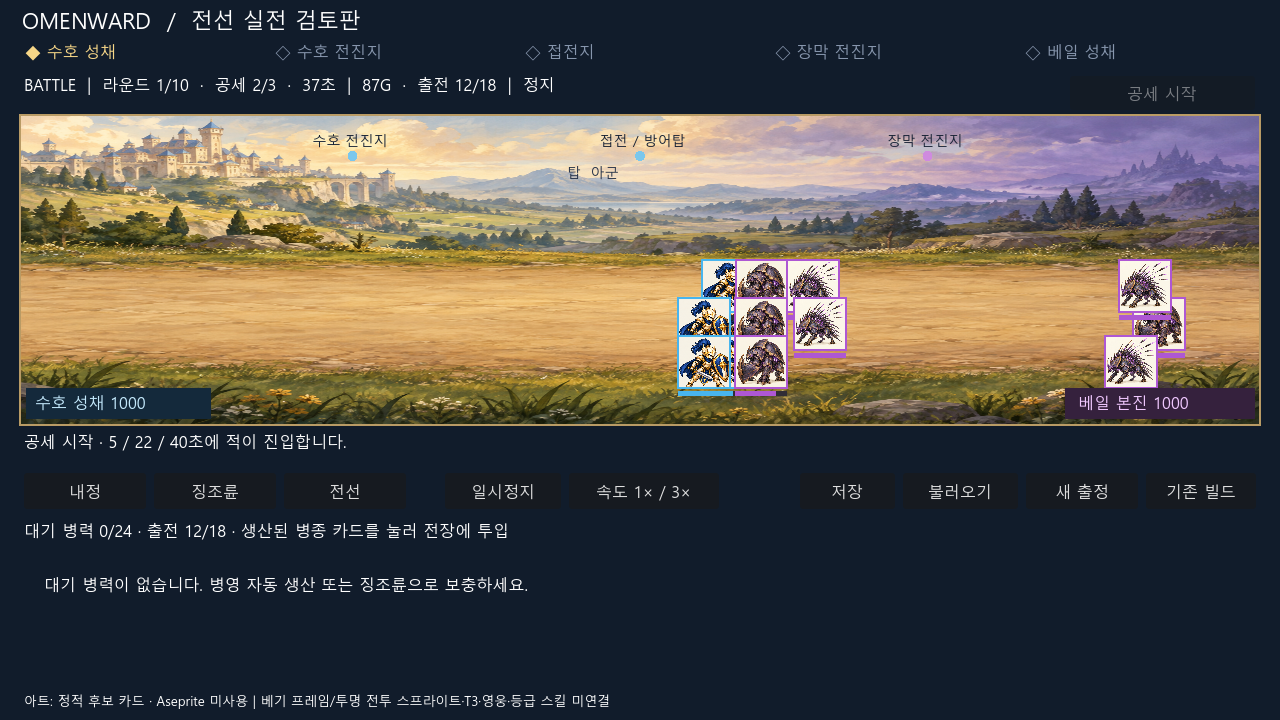
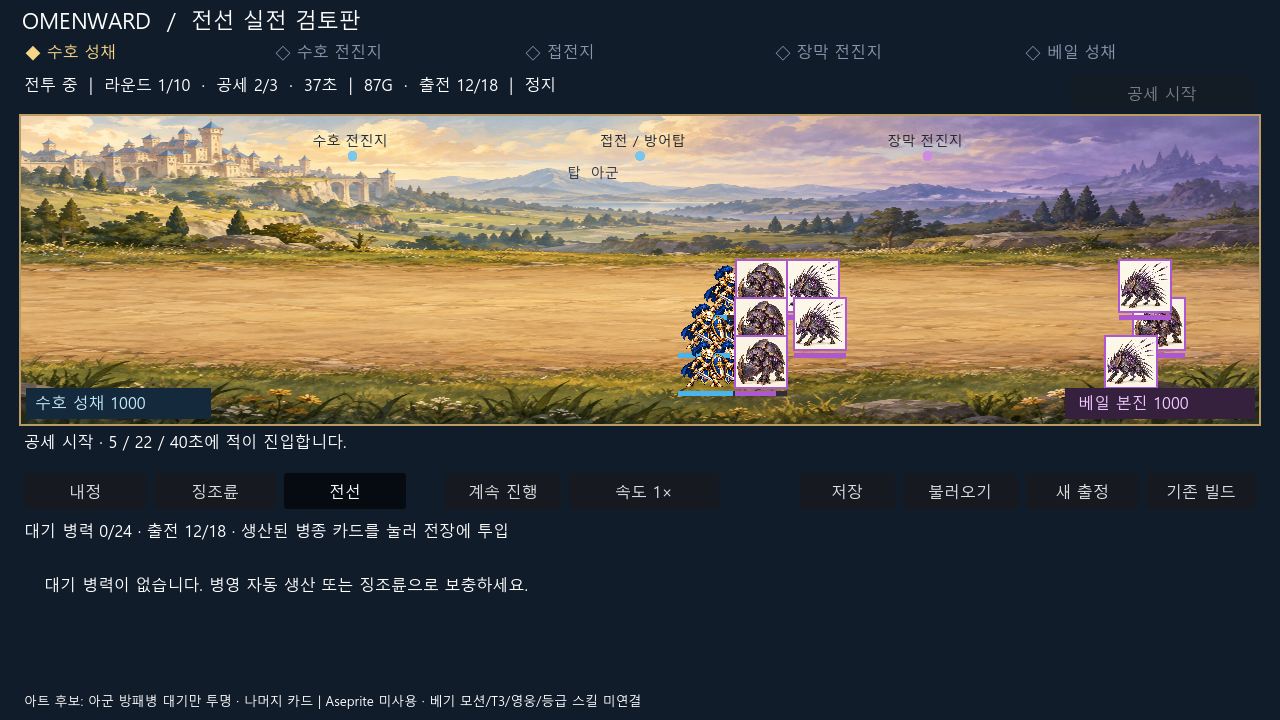
Authorize scoped replan build and clarify UI with alpha idle candidate

diff --git a/tools/replan_scope.py b/tools/replan_scope.py
@@ -1,0 +1,80 @@
+"""User-approved, project-local BUILD scope. Does not rewrite Base validation."""
+from __future__ import annotations
+import argparse
+import importlib
+from pathlib import Path
+import subprocess
+import sys
+
+ROOT = Path(__file__).resolve().parents[1]
+APPROVAL = 'docs/process/APPROVED_REPLAN_UI_MOTION_BUILD_SCOPE_20260911.md'
+# Exact files only: adding a sibling module requires a reviewed scope amendment.
+ALLOWED = {
+    'AGENTS.md', APPROVAL,
+    'project.godot', 'scenes/replan/front_slice.tscn',
+    'scripts/replan/front_art.gd', 'scripts/replan/front_art.gd.uid',
+    'scripts/replan/front_run.gd', 'scripts/replan/front_run.gd.uid',
+    'scripts/replan/front_screen.gd', 'scripts/replan/front_screen.gd.uid',
+    'docs/ACTIVE_CONTEXT.md', 'docs/CURRENT_CONFIRMED_DECISIONS.md',
+    'docs/OMENWARD_ROADMAP.md',
+    'docs/images/candidates/blueprint-20260911/ROSTER_PROVENANCE.md',
+    'docs/images/candidates/blueprint-20260911/ward-shield-slash-alpha-candidate.png',
+    'docs/images/candidates/blueprint-20260911/ward-shield-slash-alpha-candidate.png.import',
+    'docs/superpowers/plans/2026-09-11-visible-battle-slice.md',
+    'output/front-battle.png', 'output/front-building.png',
+    'tests/replan_slice_test.gd', 'tests/replan_slice_test.gd.uid',
+    'tests/replan_screen_test.gd', 'tests/replan_screen_test.gd.uid',
+    'tests/replan_capture.gd', 'tests/replan_capture.gd.uid',
+    'tools/validate_replan_slice.ps1', 'tools/replan_scope.py', 'tests/test_replan_scope.py',
+    '.github/workflows/validate-base-v9-adoption.yml',
+    '.github/workflows/validate-active-integrated-contract-v4-4.yml',
+}
+
+def unapproved(paths):
+    return sorted(set(paths) - ALLOWED)
+
+def unresolved(errors):
+    remaining = []
+    prefix = 'Protected-path changes detected: '
+    for error in errors:
+        if error.startswith(prefix):
+            paths = error[len(prefix):].split(', ')
+            if paths and all(paths) and not unapproved(paths):
+                continue
+        remaining.append(error)
+    return remaining
+
+def main():
+    parser = argparse.ArgumentParser(description=__doc__)
+    parser.add_argument('--base-repository', type=Path)
+    parser.add_argument('--base', help='Git comparison base for the scoped PR check')
+    args = parser.parse_args()
+    if not (ROOT / APPROVAL).is_file():
+        parser.error('Missing project approval owner')
+    if args.base_repository:
+        # Execute the unchanged pinned validator including locks/schema/authority checks.
+        sys.path.insert(0, str(args.base_repository.resolve() / 'tools'))
+        module = importlib.import_module('project_operating_contract')
+        release = importlib.import_module('base_release_index')
+        release.install_release_lock_paths(module)
+        errors = module.validation_errors(ROOT, args.base_repository.resolve(), check_generated=True)
+        print('BASE_RAW_RESULT:', 'FAIL' if errors else 'PASS')
+        for error in errors:
+            print('BASE:', error)
+        pending = unresolved(errors)
+        if pending:
+            print('PROJECT_SCOPED_BUILD: FAIL', pending)
+            return 1
+    elif args.base:
+        paths = subprocess.check_output(['git', 'diff', '--name-only', '--no-renames', '-z', args.base, 'HEAD'], cwd=ROOT).decode().split('\0')
+        pending = unapproved(p for p in paths if p)
+        if pending:
+            print('PROJECT_SCOPED_BUILD: FAIL', pending)
+            return 1
+    else:
+        parser.error('Supply --base-repository or --base')
+    print('PROJECT_SCOPED_BUILD: PASS; NOT Base raw PASS or runtime/Human approval')
+    return 0
+
+if __name__ == '__main__':
+    raise SystemExit(main())

diff --git a/tests/test_replan_scope.py b/tests/test_replan_scope.py
@@ -1,0 +1,42 @@
+import importlib.util
+from pathlib import Path
+import unittest
+
+ROOT = Path(__file__).resolve().parents[1]
+
+class ScopeTests(unittest.TestCase):
+    @classmethod
+    def setUpClass(cls):
+        path = ROOT / 'tools/replan_scope.py'
+        cls.module = None
+        if path.exists():
+            spec = importlib.util.spec_from_file_location('replan_scope', path)
+            cls.module = importlib.util.module_from_spec(spec)
+            spec.loader.exec_module(cls.module)
+
+    def test_approved_front_is_allowed(self):
+        self.assertIsNotNone(self.module, 'Missing scoped implementation contract evaluator')
+        self.assertEqual([], self.module.unapproved(['scripts/replan/front_screen.gd']))
+
+    def test_legacy_code_stays_protected(self):
+        self.assertIsNotNone(self.module)
+        self.assertEqual(['scripts/core/stage_run.gd'], self.module.unapproved(['scripts/core/stage_run.gd']))
+
+    def test_sibling_and_traversal_rejected(self):
+        self.assertIsNotNone(self.module)
+        for path in ['scripts/replan/other.gd', 'scripts/replan/../core/stage_run.gd', '/scripts/replan/front_run.gd', 'addons/gut/plugin.gd']:
+            self.assertEqual([path], self.module.unapproved([path]))
+
+    def test_only_exact_protected_changes_are_classified(self):
+        self.assertIsNotNone(self.module)
+        errors = ['Protected-path changes detected: scripts/replan/front_run.gd']
+        self.assertEqual([], self.module.unresolved(errors))
+        self.assertEqual(['hash mismatch'], self.module.unresolved(errors + ['hash mismatch']))
+
+    def test_unapproved_cannot_hide_among_approved(self):
+        self.assertIsNotNone(self.module)
+        errors = ['Protected-path changes detected: scripts/replan/front_run.gd, addons/gut/plugin.gd']
+        self.assertEqual(errors, self.module.unresolved(errors))
+
+if __name__ == '__main__':
+    unittest.main()

diff --git a/docs/process/APPROVED_REPLAN_UI_MOTION_BUILD_SCOPE_20260911.md b/docs/process/APPROVED_REPLAN_UI_MOTION_BUILD_SCOPE_20260911.md
@@ -1,0 +1,30 @@
+# Approved project-local replan BUILD scope
+
+## Authority
+
+User requested UI correction and transparent units with connected motion, then explicitly approved the assistant's proposal to update the planning-only contract for that work: **진행해**. This authorizes this bounded transition, not general removal of protection or main/admin bypass.
+
+## Contract
+
+The existing pinned Base v9.4.3 validator has no approved-runtime exception interface. Its result remains unchanged and is reported as BASE_RAW_RESULT. `tools/replan_scope.py` owns a separate PROJECT_SCOPED_BUILD decision: only the exact protected-path-change diagnostic for the explicitly enumerated replan files is resolved by this approval. Every other Base error remains blocking. The Base source, lock, adapter, protected path list and trusted baseline are not edited.
+
+The exact file allowlist is `tools/replan_scope.py::ALLOWED`. It covers the current preview dependency (model, view, atlas, scene, entry configuration), tests, screenshots, affected status owners and the two obsolete planning-only workflow scope checks. Unlisted scripts, scenes, data, assets and all addons remain forbidden. New asset/animation files require an explicit list amendment under this same UI/motion task, not broad directory access.
+
+The project router's generic stop rule is superseded **only for this explicit approved recovery**: after running the unchanged Base validator, run the project-scoped evaluator. Proceed only if it reports PASS. Do not report this as Base PASS. Normal unrelated work retains the original router.
+
+## Evidence and integration
+
+Asset amendment in this scope: `docs/images/candidates/blueprint-20260911/ward-shield-slash-alpha-candidate.png` and its optional Godot import metadata. Only the top-left idle cell is used by the review consumer. This does not authorize other assets or final art promotion.
+
+Tests must reject old StageRun changes, sibling scripts, traversal, absolute paths, addon changes and mixed approved/unapproved failures. Parent planning PR/main integration is still separate. Original historical contract tests remain active. Candidate art approval, alpha checks, Aseprite work, runtime and Human are separate statuses.
+
+## Remaining sequence
+
+Scoped contract tests and CI → UI corrections → image model transparent candidates → alpha inspection → frame/pivot/timing → Godot consumer → runtime capture. No new image is considered alpha-ready merely because its background looks white/checkered. No static transform is reported as a newly drawn animation frame.
+
+## Execution readback
+
+- Scope regression: 5 tests PASS. Historical CI suite: 109 tests PASS after removal of 14 ignored Godot-generated CSV translation/import files; original CSVs retained. This existing hygiene test checks local file existence despite its `tracked` name. Editor reimport can reproduce the artifacts; cleanup is not a permanent importer fix.
+- Godot: model 39 checks/0 failures; UI/save/real alpha/idle region/current controls PASS; default scene smoke PASS. GPU capture: 19 damage events, 16 units; building and combat outputs updated.
+- Independent reviewer read all 16 changed files in five full-scope passes (scope escape, CI, execution regression, approval/evidence, maintenance). No new blocker found; reviewed both GPU captures and hash. Reviewer did not execute Godot; this is not five runtime tests or Human approval.
+- Branch remains stacked on the planning branch. Direct comparison to main fails the narrow allowlist as expected because parent planning changes are outside this implementation approval. Do not broaden the list to conceal that integration dependency.

diff --git a/docs/images/candidates/blueprint-20260911/ROSTER_PROVENANCE.md b/docs/images/candidates/blueprint-20260911/ROSTER_PROVENANCE.md
@@ -1,5 +1,15 @@
 # Roster / building / hero candidate provenance
 
+## UI/alpha follow-up · 2026-09-11
+
[1 lines of base64/hex data omitted]
+- Actual PIL readback: RGBA, 1254×1254, alpha range 0–255, 805895 completely transparent pixels. Godot checks transparent corner, alpha detection and exact 627×627 idle region. No code-based background removal.
+- Consumer: `front_art.gd::unit(shield_guard, 0)` → `front_screen.gd`, **top-left idle cell only**, no rectangular card border in battlefield. Other classes remain opaque candidate cards. Final approval PENDING; Aseprite NOT_USED for this file.
+- Four generated poses exist, but bottom-left sword crosses its cell; not a valid four-frame animation. Spacing repair outputs again had painted checkerboard and are not copied into the project. No slash playback/impact synchronization claim.
+- Origin: style/identity reference `ward-roster.png` top-left soldier → four distinct 2×2 slash poses (`exec-5385a573-3a70-4811-805a-7e6c354272a5.png`, RGB checkerboard rejected) → image-model alpha extraction. Source unchanged; only selected output copied to repository.
+- Exact successful extraction prompt: "Use case: background-extraction. Edit target: the provided four-frame knight sheet. Remove ONLY all the visible gray/white checkerboard pixels in the background. Preserve the four knights, their poses, colors and pixels as closely as possible. Return a PNG image with a TRUE alpha channel, completely transparent outside the characters and in holes around arms, weapons, and cloaks. The checkerboard currently in the input is incorrectly painted into RGB. It must be removed, not redrawn. No solid white background, no black background, no gray background, no checkerboard rendering. Actual RGBA transparent cutout. Do not add anything. Keep canvas and character positions identical."
+- Learning: transparency can regress on a later spacing edit. Re-test alpha after **every** image edit, not only initial extraction. Project regression checks now reject opaque replacements. Base promotion remains a proposal, not a change to shared policy.
+
 2026-09-11 scoped execution preview: `scripts/replan/front_art.gd` now consumes battlefield-layer, ward-roster, veil-roster, building-tree, special-roster-additions and ui-icons in `scenes/replan/front_slice.tscn`. State remains GENERATED_CANDIDATE; this is a visible review consumer, not final asset registration. UI portraits and battlefield card tokens are opaque static images, Aseprite NOT_USED. Missing special facility art uses an explicitly generic icon. Heroes and historical Aseprite slash are not wired. Source images are unchanged; no duplicated source pixels. Godot GPU captures are implementation evidence, not image approval.
 
 ## v3 additions and correction

diff --git a/docs/ACTIVE_CONTEXT.md b/docs/ACTIVE_CONTEXT.md
@@ -1,5 +1,7 @@
 # [현행] OMENWARD Active Context
 
+2026-09-11 후속 UI/투명 이미지: 사용자가 기획 전용 계약의 한정 BUILD 전환을 승인했다. owner: `docs/process/APPROVED_REPLAN_UI_MOTION_BUILD_SCOPE_20260911.md`. Base v9.4.3 원검사의 protected-path FAIL과 프로젝트 한정 승인 PASS를 분리한다. 버전/기준점/보호 목록은 유지한다. 탭 선택, 일시정지/재개, 현재 배속, 한국어 phase를 연결했다. 아군 방패병 대기 1셀만 실제 RGBA 후보로 연결했다. 베기 시트는 셀 침범 때문에 모션 미연결; 간격 교정본은 RGB 체크무늬로 실패했다. Aseprite 이번 후보 미사용. 전투 규칙 39검사, 화면/저장/알파 검사, 실제 GPU 전투·건설 캡처 PASS. 전체 모션·나머지 병종 투명화·Human/제품 완료는 아님. 새 원격 CI 상태는 exact HEAD로 별도 확인한다.
+
 2026-09-11 현재 BUILD: 사용자 승인에 따라 `scenes/replan/front_slice.tscn`에 별도 단일 전선 검토판을 구현했다. 이 작업 공간의 기본 실행은 검토판이며 기존 장면은 ‘기존 빌드’ 버튼으로 보존한다. 새 앱 이름으로 저장 공간을 분리했다. 실제 규칙 모델 `scripts/replan/front_run.gd`, UI `front_screen.gd`, 아틀라스 소비 `front_art.gd`. 상세 범위·검사·잔여 작업은 `docs/superpowers/plans/2026-09-11-visible-battle-slice.md`. 아래 구현 보류와 제품 코드 미변경 기록은 이 범위에서 역사다. 원격 main 통합 완료를 뜻하지 않는다.
 
 현행 v3: 일반병/특수병 분리 사용자 교정을 반영했다. 일반 5+특수 5=10병종, 별도 T1 뿌리와 T2 전문화, T3 동일 병종 심화로 데이터/본문을 교정했다. 이전 8병종·단일 병영 트리는 superseded. 특수 T1 추첨/토큰, 등급 체계와 영웅은 권장안이다. 68쪽 v3 검토 PDF, 기획 데이터 검사 12개 PASS. 암살자/비행병 아군·베일 정적 도감 후보 추가(Aseprite 미사용). 전체 구현 착수 준비는 PARTIAL; 제품 코드는 변경하지 않았다.

diff --git a/docs/OMENWARD_ROADMAP.md b/docs/OMENWARD_ROADMAP.md
@@ -1,5 +1,7 @@
 # [현행] OMENWARD Roadmap
 
+2026-09-11 후속: 한정 BUILD 승인 검사와 CI 범위 분리, 탭/정지/배속/한국어 UI 상태, 방패병 대기 RGBA 연결을 진행했다. 다음은 **셀 간 침범 없는 실제 RGBA 베기 상태군 → Aseprite 피벗/시간 데이터 → 타격 시점 연동 → 베일 및 나머지 병종**이다. 최초 투명 후보의 베기 검이 이웃 셀로 넘어가므로 현재 연결은 대기 1셀뿐이다. 픽셀 이동을 베기 모션 완료로 취급하지 않는다. 원격 main 및 부모 기획 PR 통합은 별도다.
+
 2026-09-11 현재: 인게임 전투·병영 건설·이미지 연결의 제한된 실행 검토판을 구현 중/검증한다. 실행 owner는 `docs/superpowers/plans/2026-09-11-visible-battle-slice.md`. 다음 필수 작업은 (1) 정적 카드 대신 투명 병종 스프라이트와 베기 상태군, (2) 겹침/공간 점유·전투 가독성, (3) 징조륜 행/열 조작과 보너스, (4) 남은 병종 능력/T3·등급·영웅, (5) 전체 맵/밸런스 및 오래된 CI 계약 정합성이다. 본문 과거 ‘최종 승인 전 runtime 금지’는 최신 단일 전선 BUILD 승인 범위에서 superseded. 검토판 작동과 제품 완성은 구분한다.
 
 v3 현재: 일반/특수 분리·10병종·T3 심화 교정과 기획 데이터 자동검사 완료. 누락 2병종 도감 후보 추가. 다음은 특수병영 등 누락 건물 원화, 실제 투명 전투 상태군, 경제/전투 검증 및 정본 CI 드리프트 교정, 최종 승인이다. 문서 검사 PASS는 인게임 구현 준비 전체 PASS가 아니다.

diff --git a/docs/CURRENT_CONFIRMED_DECISIONS.md b/docs/CURRENT_CONFIRMED_DECISIONS.md
@@ -1,5 +1,7 @@
 # OMENWARD · Current Confirmed Decisions
 
+2026-09-11 후속 승인: 사용자 ‘진행해’는 직전 제안한 UI·투명 이미지·모션 범위의 기획 전용 계약 전환을 승인한다. `docs/process/APPROVED_REPLAN_UI_MOTION_BUILD_SCOPE_20260911.md`의 정확한 파일 범위만 허용하며 Base 버전/기준점/Git 보호를 변경하지 않는다. 구현 검토판에 후보를 연결할 수 있지만 생성 이미지 최종 승인 또는 완성 모션 승인으로 확대하지 않는다.
+
 2026-09-11 최신 사용자 승인: ‘인게임에서 전투하는 거, 병종건설도 볼 수 있게. 이미지 연결’. 단일 전선 실전 검토 구간의 BUILD를 개방한다. 아래 기획-only/구현 보류는 이 범위에서 superseded. 실행 계약: `docs/superpowers/plans/2026-09-11-visible-battle-slice.md`. 후보 도감 아틀라스는 검토판의 카드 표현으로만 연결하며 최종 전투 스프라이트/모션 승인·전체 게임 완성을 뜻하지 않는다. 10병종 기본 수치/생산·일반/특수 T1→T2 계열, 1맵 10라운드 골격을 검토한다. T3/등급 스킬/영웅/5맵 완성은 후속이다.
 
 최신 사용자 확정: 일반병종과 특수병종은 별도. 남은 작업 진행 요청은 기획·준비 보완으로 실행하며 전체 최종 구현 승인으로 확대하지 않는다. v3의 별도 일반병영/특수병영과 10병종 분류가 현행 검토안이다. 과거 특수 T1 토큰 규칙 충돌은 본문에 표시하고 추천안/사용자 확정을 구분한다.

diff --git a/AGENTS.md b/AGENTS.md
@@ -1,5 +1,7 @@
 # OMENWARD 프로젝트 AI 작업 규칙
 
+> **2026-09-11 명시 승인된 UI/투명 이미지/모션 BUILD 계약 전환:** `docs/process/APPROVED_REPLAN_UI_MOTION_BUILD_SCOPE_20260911.md`를 따른다. Base 원검사는 그대로 실행·보고한다. 그 실패가 이번 승인된 exact 파일의 보호 경로 변경뿐일 때만 `python tools/replan_scope.py --base-repository <pinned Base checkout>`의 별도 `PROJECT_SCOPED_BUILD` 판정으로 이 작업을 진행한다. 이 한정 승인 외에는 router fail-closed를 유지한다. Base lock·adapter·보호 목록·Git 보호는 변경하지 않는다.
+
 > **2026-09-10 재기획 우선 적용:** 사용자는 기획부터 다시 시작하고 기존 이미지는 참고자료로만 사용하며 새 이미지와 모션을 함께 제작하도록 지시했다. 현재 접수·근거·작업 순서는 `docs/design/OMENWARD_REPLAN_AND_MOTION_INTAKE_2026-09-10.md`가 소유한다. 아래의 이전 제품 기획·시각 승인·phase·완료 상태는 새 기획의 실행 권한이 아닌 기존 빌드의 역사/비교 자료다. 보안·저장 보호·권리·Git 보호 경계는 유지한다. 읽기 순서는 프로젝트 최신 AGENTS → 최신 main → Decisions/Active Context → 실제 consumer와 열린 PR 중첩 → 적용 Base 지침이다. Base version lock은 변경하지 않는다.
 
 ```yaml
